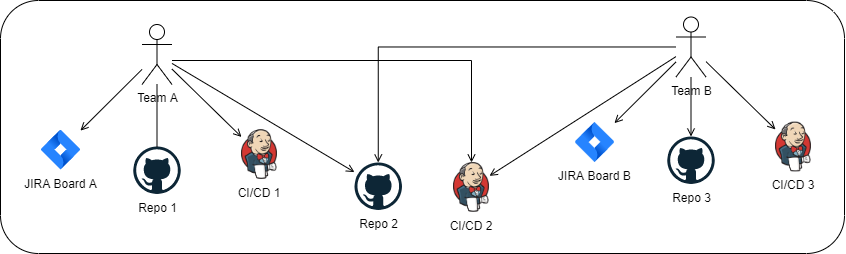
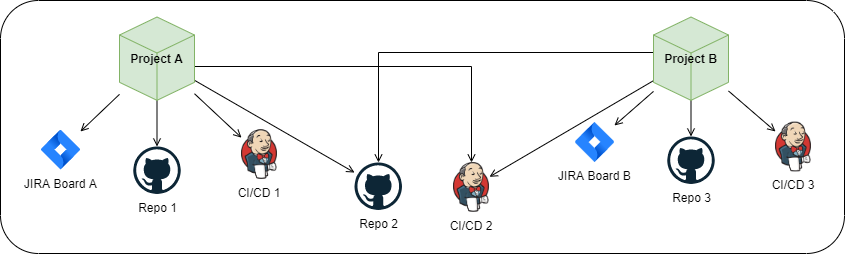
docs: rearrange section markdown   * replace irrelevant `team` concept by `project` in use cases   * remove redundant diagram

diff --git a/docs/_temp/Installation.md b/docs/_temp/Installation.md
@@ -56,23 +56,28 @@ and **Jenkins CI/CD** deploys in each GitHub repo.
 The same would apply to other repos (e.g. GitLab or BitBucket), boards (e.g. TAPD), 
 or CI/CD (e.g. GitLab CI, Azure DevOps).
 
-## 4. Building use case 1
+## 4. Use Cases
+This section demonstrates real-life situations and how they get reflected in DevLake.
 
-There are `2 teams` with `2 boards`, 3 `repos`, and 3 `cicd pipelines`. 
-One of the repos is shared between both teams.
+### 4.1. Use Case 1
+
+There are `2 projects` with `2 boards`, 3 `repos`, and 3 `cicd pipelines`. 
+One of the repos is shared between both projects.
 
 ![](project_use_case_1.png)
 
 Let's build this example.
 
-### 4.1. Organizing projects
-DORA is good for testing effects of the new changes in team's methodology. 
-So, naturally, we will create 2 `projects`, one for each team in this case.
+#### 4.1.1. Organizing Projects
+DORA is good for seeing the effects of the new changes in team's methodology.
+However, for DORA itself **there are no teams**, only projects. 
+The `team` concept is redundant and only introduces noise and complexity, for no benefit.
+So we will create 2 `projects` on DevLake to reflect those we are working with.
 
 ![](create_project_1.png)
 ![](create_project_2.png)
 
-### 4.2. Creating connections
+#### 4.1.2. Creating Connections
 
 For GitHub `repos` we will create:
 - 1 connection for Team A
@@ -86,7 +91,7 @@ The connections to retrieve the `deployments` of Jenkins will be arranged the sa
 
 For JIRA `incident boards` we will create 1 connection per each board.
 
-#### 4.2.1 GitHub connection
+#### 4.1.3. Configuring GitHub Connection
 1. Create a GitHub access token specified in the [official GitHub Guide](https://docs.github.com/en/authentication/keeping-your-account-and-data-secure/managing-your-personal-access-tokens#creating-a-personal-access-token-classic)
 2. Navigate to the "Connections" view
 ![](configure_connection_github_1.png)
@@ -97,34 +102,31 @@ For JIRA `incident boards` we will create 1 connection per each board.
    - If collecting private repositories, also include the repo field.
 5. Click "Test Connection". If no error appears, click "Save Connection".
 
-#### 4.2.2 GitHub connection scope
+#### 4.1.4. Configuring GitHub Connection Scope
 TODO
 
-#### JIRA
+#### 4.1.5. JIRA
 TODO: screenshots
 
-#### Jenkins
+#### 4.1.6. Jenkins
 TODO: screenshots
 
-### 4.3. Using connections
+### 4.1.7 Using connections
 
 TODO: How we use the `connections` for projects, defining their `cicd_scopes`. More screenshots
 
-### 4.4. Building the project
+### 4.1.8. Building the project
 
 TODO: final screenshots for collecting data
 
-The resulting project's structure mirrors what we started with:
-![](project_use_case_1_devlake.png)
 
-
-### 5. Building use case 2
+### 4.2. Building use case 2
 
 Some teams may have shared `JIRA boards`. Assume the Use Case 1 but with this difference:
 
 ![](project_use_case_2.png)
 
-## 6. How do I know if the data of a project is successfully collected?
+## 5. How do I know if the data of a project is successfully collected?
 
 Navigate to your DORA Dashboard:
 
@@ -135,12 +137,12 @@ If everything goes well, you should see all the 4 charts.
 If something is wrong, and you are puzzled why, check out the 
 [Debugging Dora Issue Metrics](docs/Troubleshooting/Dashboard.md#debugging-dora-issue-metrics) page.
 
-## 7. How can I observe metrics by project?
+## 6. How can I observe metrics by project?
 In the same DORA dashboard check out this menu point:
 ![](observe_metrics_by_project_panel.png)
 
 The metrics should change when you select or deselect projects.
 
 
-## 8. Webhooks
+## 7. Webhooks
 TODO
